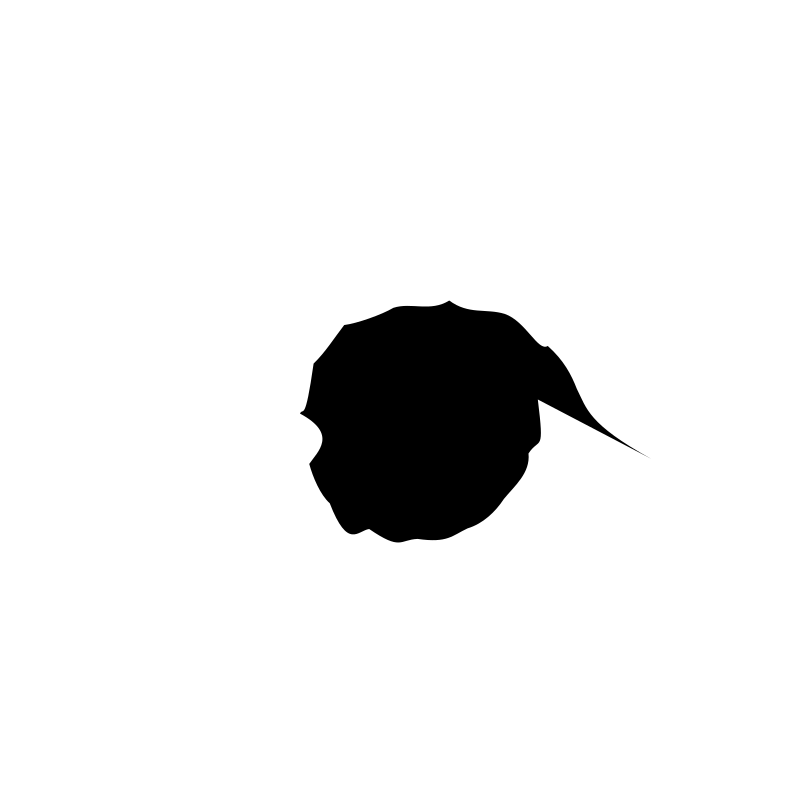
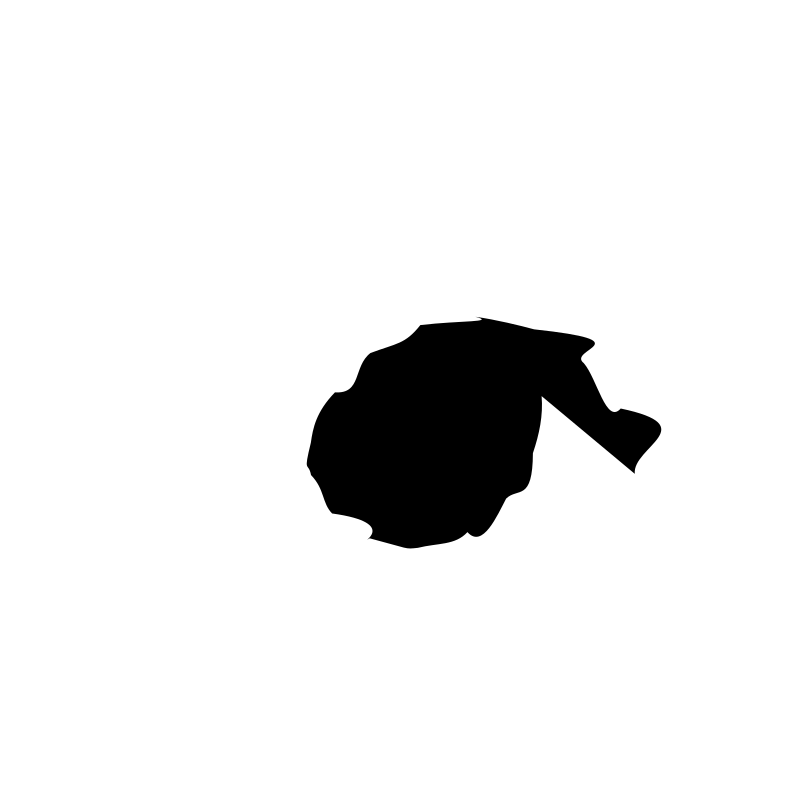
went back to version from 3 days ago

diff --git a/draw.py b/draw.py
@@ -4,24 +4,16 @@ from cairosvg import svg2png
 import imagedif
 import shutil
 
-#SETS UP YOUR CONSTANTS----------------------------
-constants = [a.replace("\n", "") for a in open('constants.txt').readlines()]
+def createPNG(name):
+    file = open('startcircle.svg').read()
 
-nmax = int(constants[0].split(",")[-1])
-startShape = constants[1].split(",")[-1]
-generatedShape = constants[2].split(",")[-1]
-targetShape = constants[3].split(",")[-1]
-#End of constants set up --------------------------
+    soup = bs(file, 'xml')
 
-#generates a single random SVG image by manipulating vertice values
-def createPNG(fname=generatedShape+".png"):
-    file = open(startShape).read()
-    soup = bs(file, 'lxml')
     dimensions = soup.find("path")
     shape = dimensions['d']
     list_of_dimensions = shape.split(",")
     new_list_of_dimensions = []
-    #iterate through all of the `verticies` in the .svg file
+
     for dim in list_of_dimensions:
         items = dim.split(" ")
         new_items = []
@@ -30,7 +22,6 @@ def createPNG(fname=generatedShape+".png"):
                 new_items.append(item)
             else:
                 di = float(item)
-                #changes the value of a single veritce at a time
                 dinum = di+random.uniform(0, 10)/random.uniform(0,10)
                 new_items.append(str(dinum))
         listofDIMS = " ".join(new_items)
@@ -40,34 +31,45 @@ def createPNG(fname=generatedShape+".png"):
     dimensions['d'] = reinsert
 
     save_this = str(soup)
-    #update the SVG file with new images
-    fileName = f"genimages/x.svg"
-    try:
-        svg2png(bytestring=save_this,write_to=fileName)
-    except Exception as ee:
-        print(ee)
+    svg2png(bytestring=save_this,write_to=f"genimages/{name}.png")
 
+max = 10000
 count = 0
 best_result = []
 closest_score = 28563242999.0
-while count < nmax:
-    createPNG()
-    save_path = f"genimages/x.svg"
+while count < max:
+    createPNG("X")
+    save_path = f"genimages/X.png"
     try:
-        result = imagedif.main(f"x.png", save_path)
+        result = imagedif.main("heart.png", save_path)
         mn_dist = float(result[0])
         count+=1
         if mn_dist < closest_score :
             closest_score = mn_dist
             best_result = [mn_dist, save_path]
-            print(count, nmax-count, closest_score)
+            print(count, max-count, closest_score)
             try:
-                shutil.move("genimages/x.png", "topimages/x.png")
+                shutil.move("genimages/X.png", "topimages/X.png")
             except Exception as ef:
                 print(f"Tried to move file but: {ef}")
         else:
             continue
     except Exception as ee:
-        print("Line 68", ee)
+        print(ee)
 
 print(best_result)
+
+
+#SAVE SVG FILE
+# with open('brand_new_image.svg','w') as outfile:
+#     outfile.write(str(soup))
+
+
+
+#USE PHASH TO DISCARD ANY IMAGES THAT ARE NOT CLOSER TO TARGET IMAGE THAN PREVIOUS ATTEMPTS
+
+
+
+# digest1 = pHash.image_digest( 'file.1.jpg', 1.0, 1.0, 180 )
+# digest2 = pHash.image_digest( 'file.2.jpg', 1.0, 1.0, 180 )
+# print 'Cross-correelation: %d' % ( pHash.crosscorr( digest1, digest2 ) )

diff --git a/try.py b/try.py
@@ -1,0 +1,26 @@
+from bs4 import BeautifulSoup as bs
+import random
+
+file = open("startcircle.svg").read()
+soup = bs(file, 'lxml')
+dimensions = soup.find("path")
+shape = dimensions['d']
+list_of_dimensions = shape.split(",")
+new_list_of_dimensions = []
+#iterate through all of the `verticies` in the .svg file
+for dim in list_of_dimensions:
+    items = dim.split(" ")
+    new_items = []
+    for item in items:
+        if item.isalpha():
+            new_items.append(item)
+        else:
+            di = float(item)
+            #changes the value of a single veritce at a time
+            dinum = di+random.uniform(0, 10)/random.uniform(0,10)
+            new_items.append(str(dinum))
+    listofDIMS = " ".join(new_items)
+    new_list_of_dimensions.append(listofDIMS)
+
+reinsert = ",".join(new_list_of_dimensions)
+dimensions['d'] = reinsert
